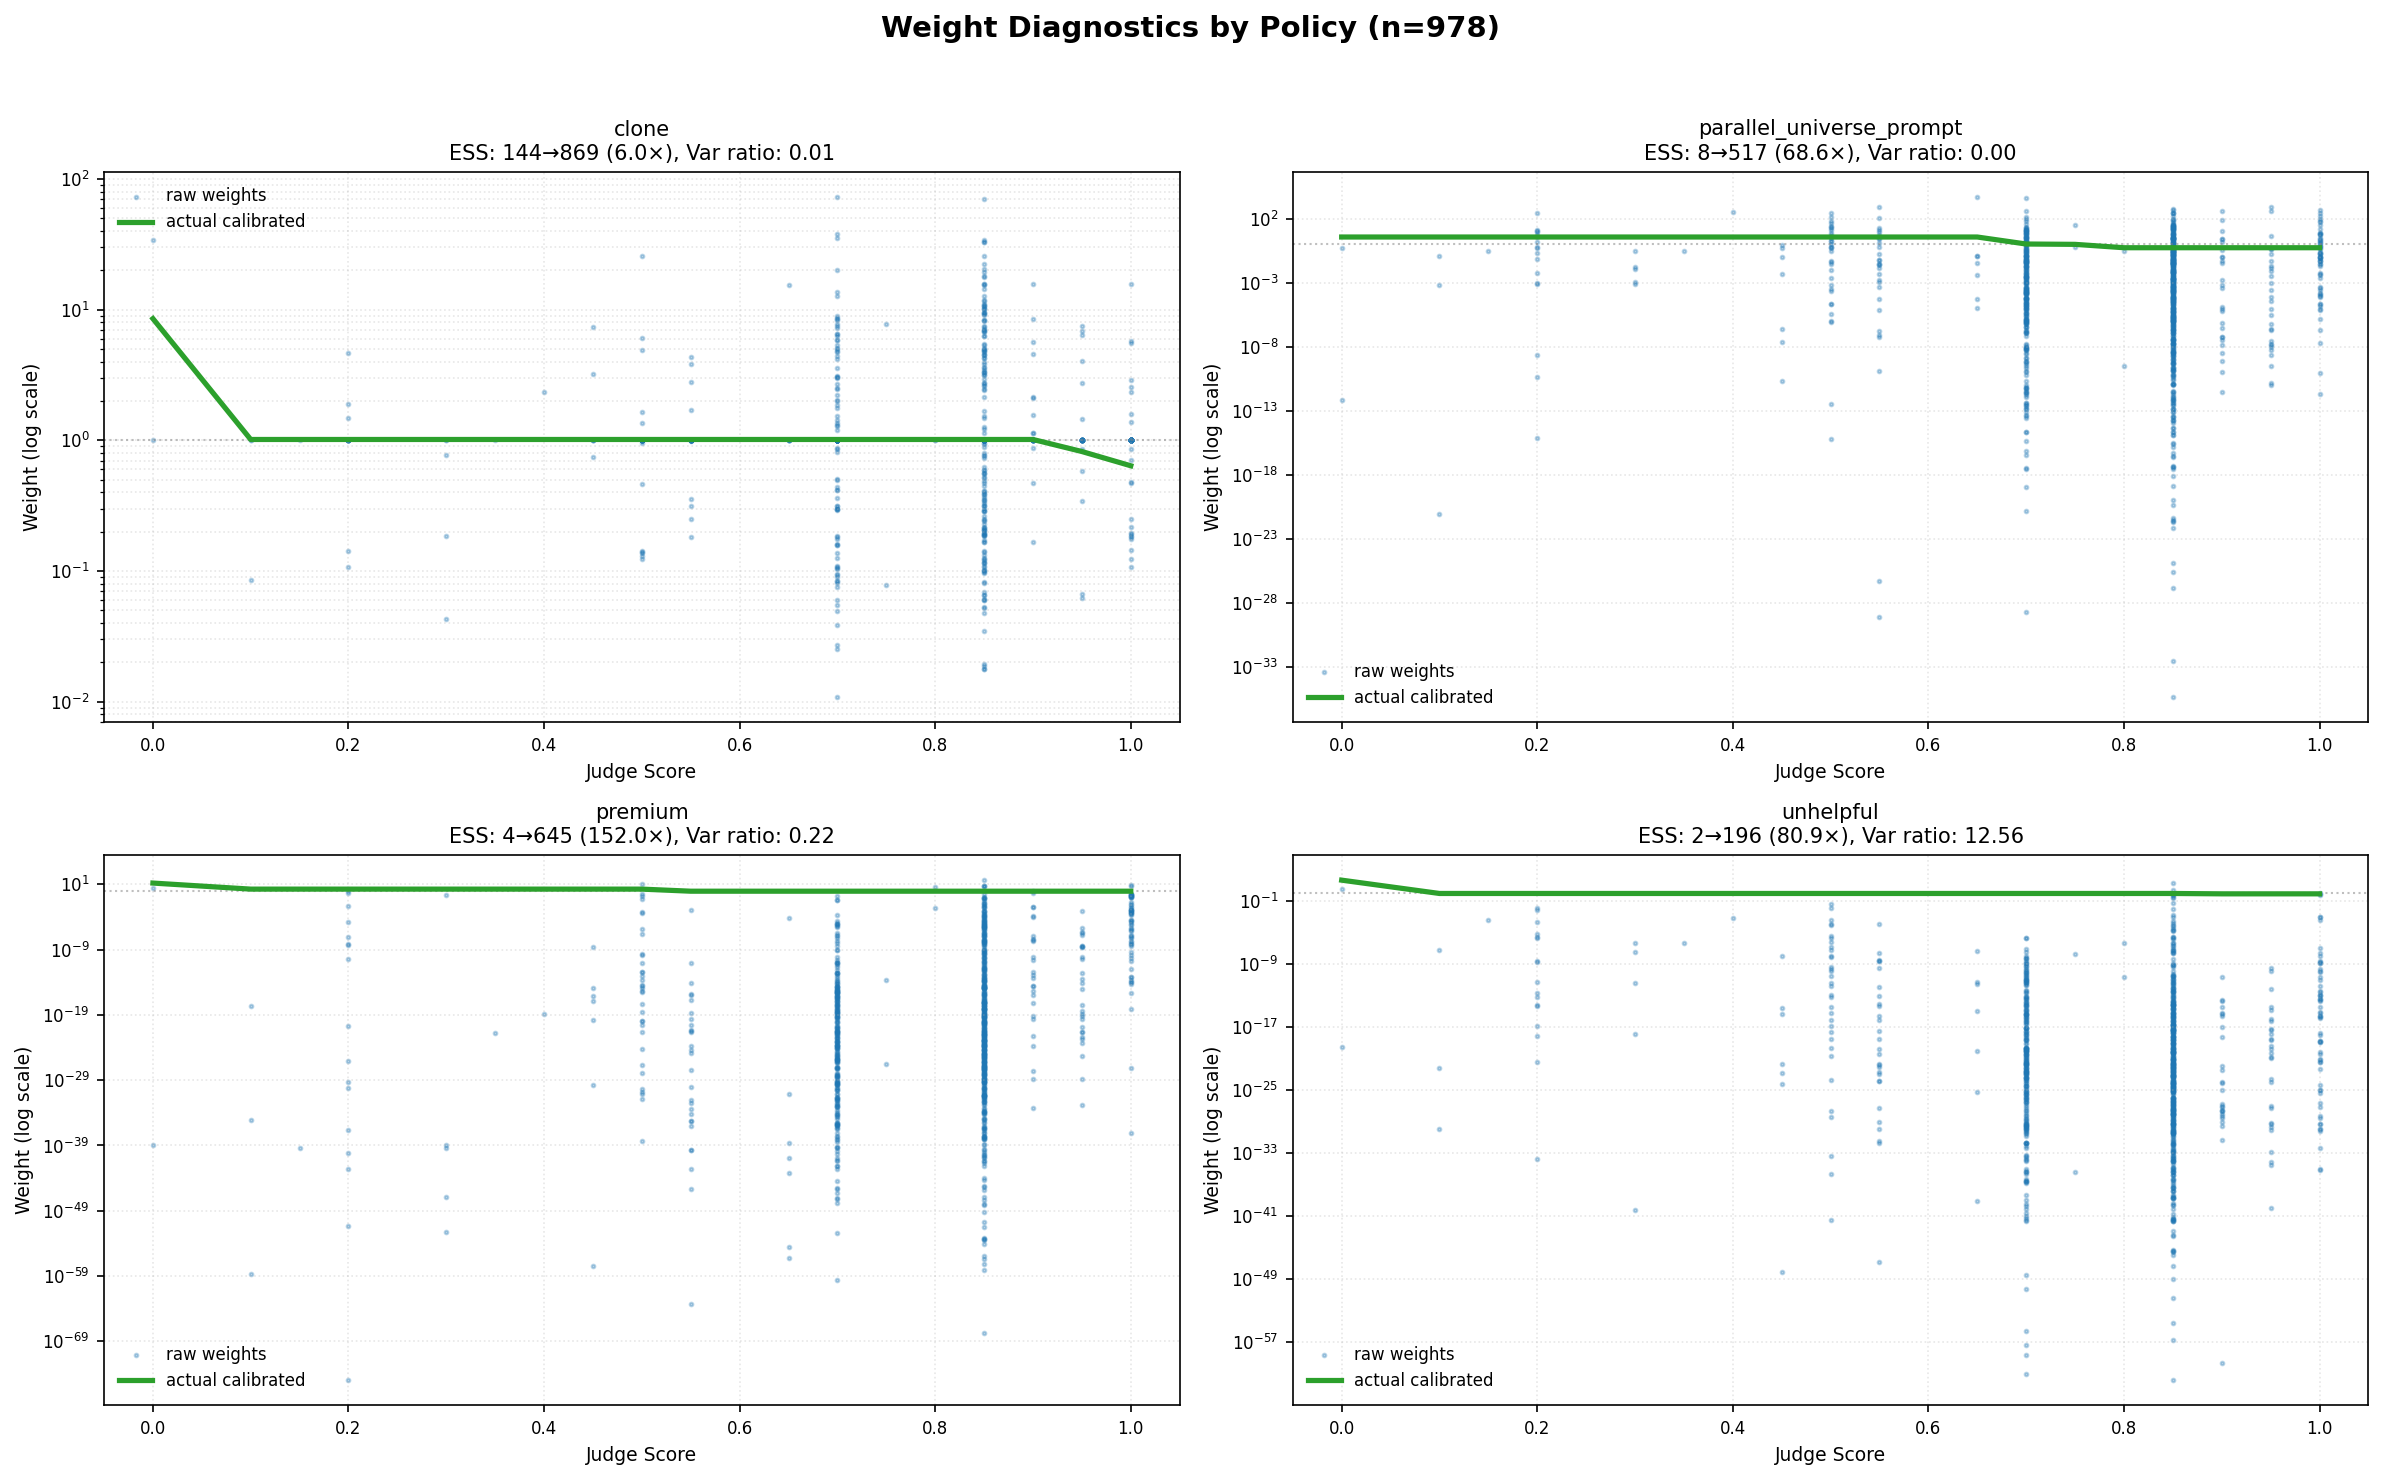
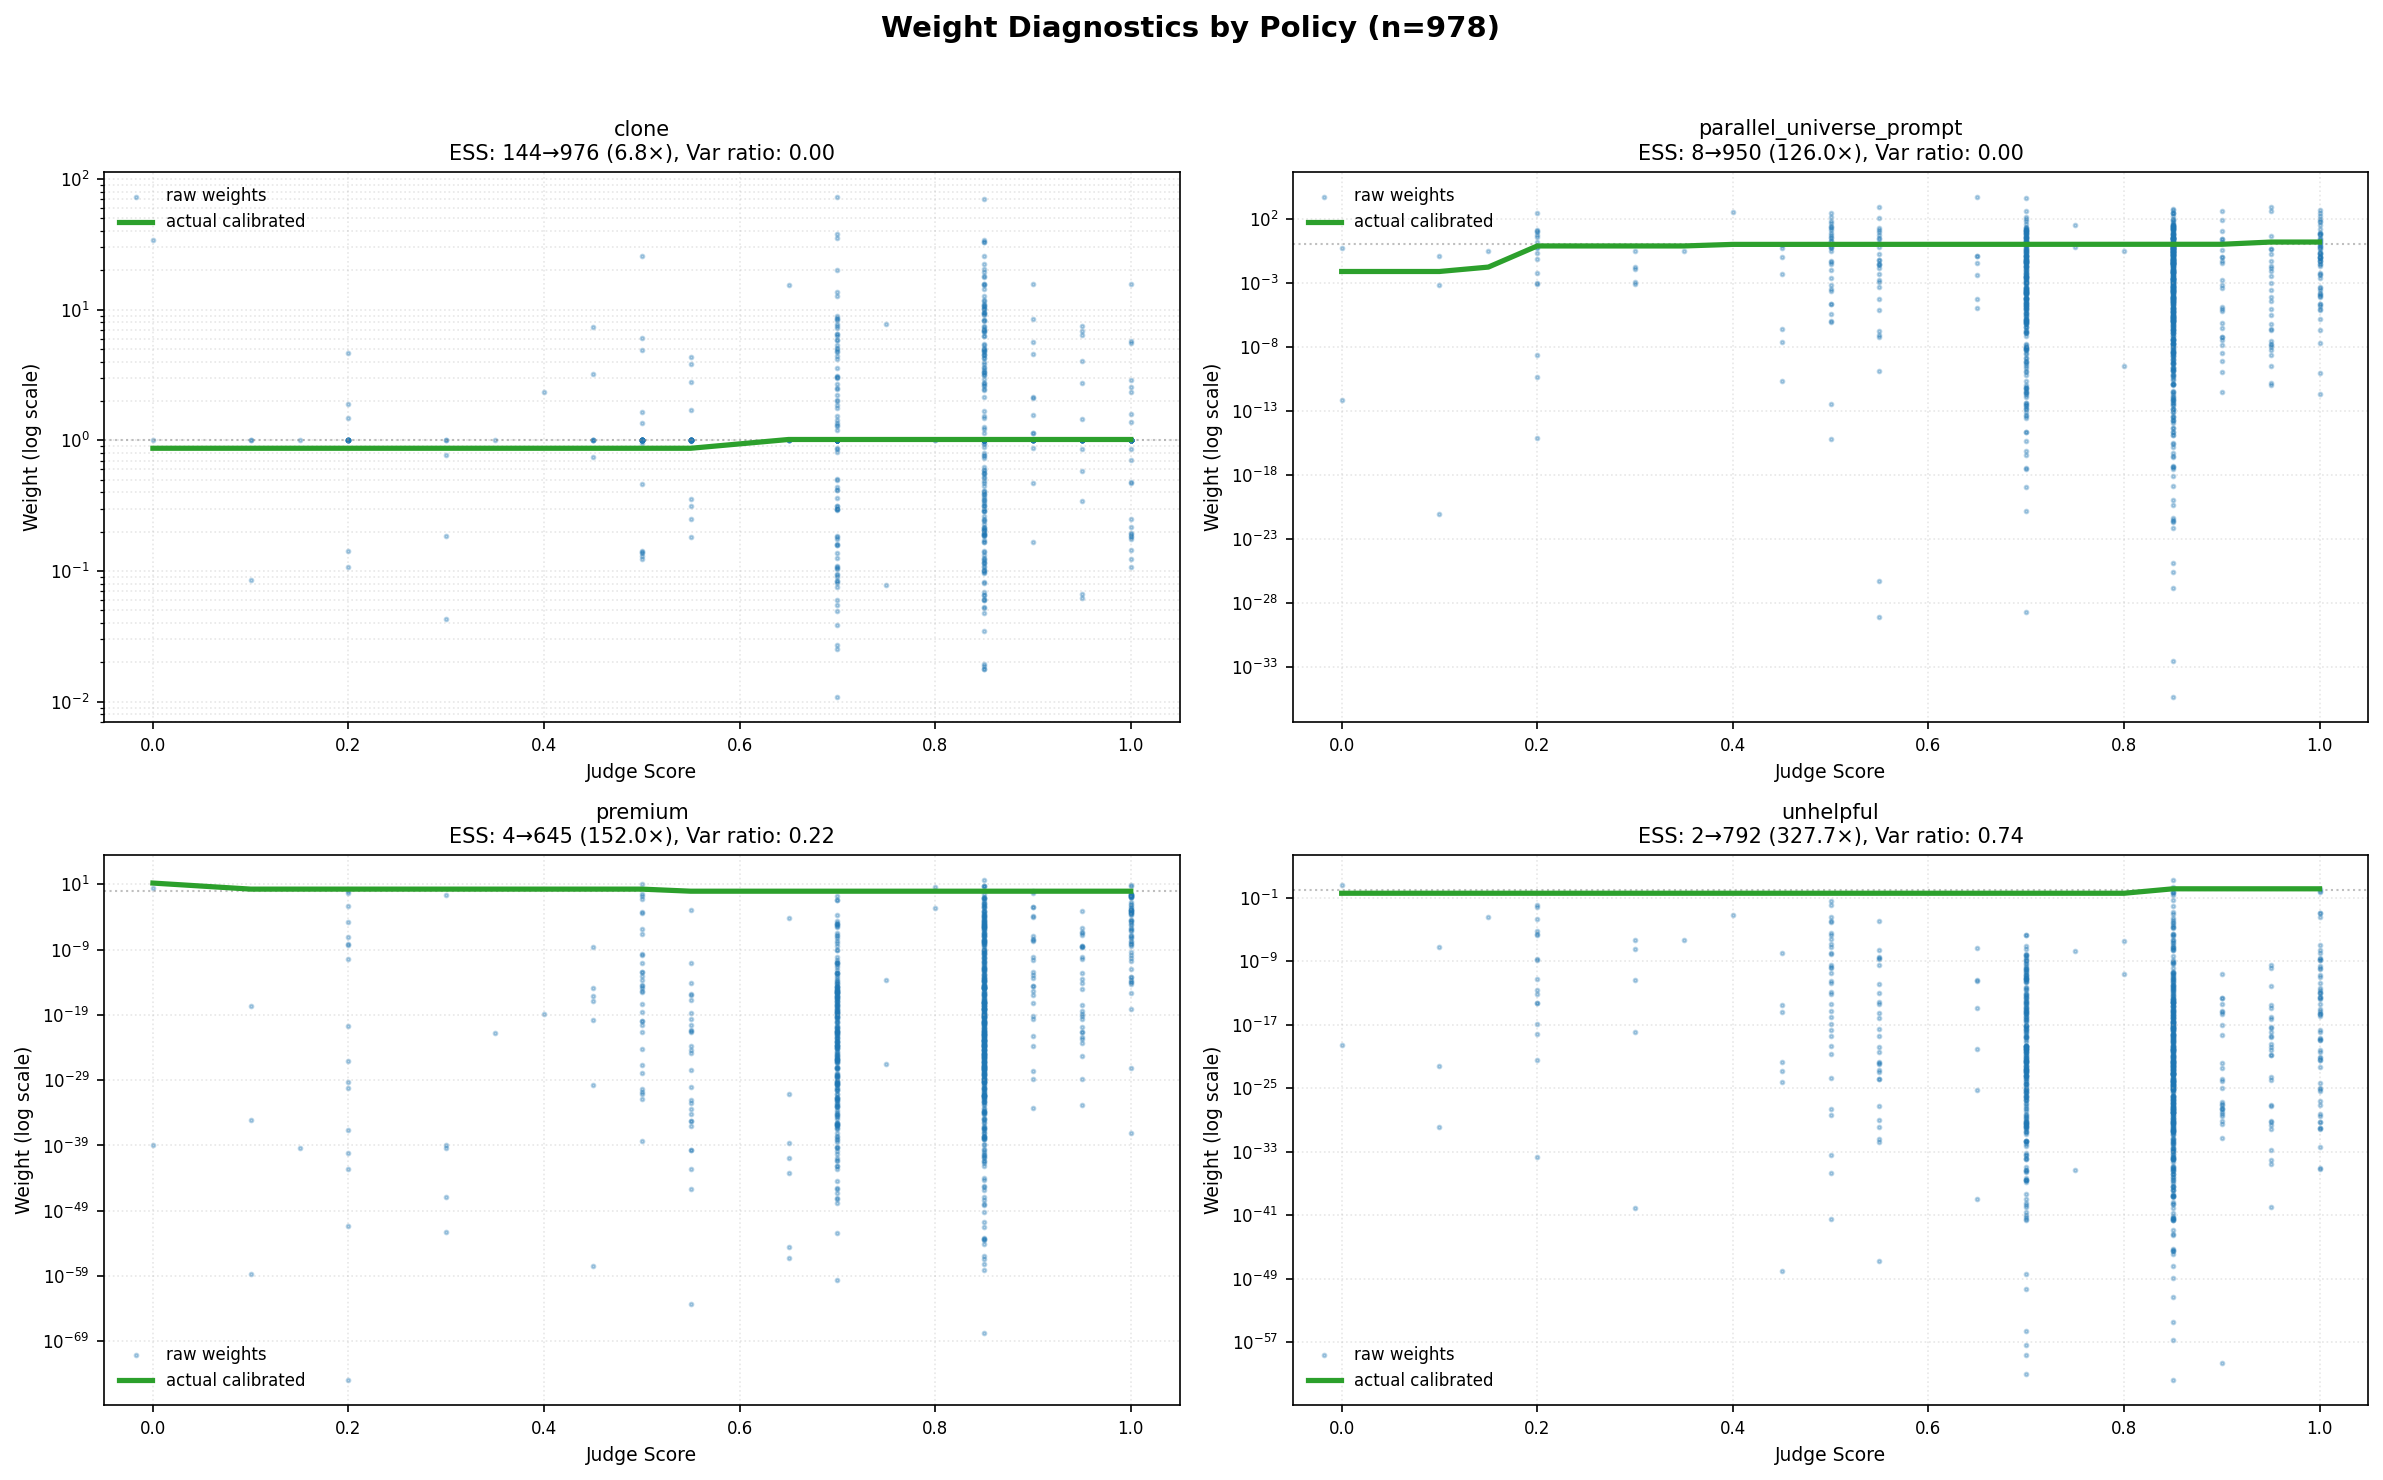
feat: Add IF-based direction selection for SIMCal weight calibration
Implements a more principled approach to selecting monotone direction
in SIMCal based on minimizing influence function variance rather than
L2 distance. This leads to better statistical efficiency.

Key changes:
- Add _select_best_direction() method to CalibratedIPS that computes
  IF variance for both monotone directions and picks the best
- Support DR-aware selection when calibrator is available, using
  cross-fitted residuals for more accurate variance estimation
- Pass calibrator through entire pipeline (analysis.py → estimators)
- Maintain backward compatibility with select_direction_by="l2"
- Default to "if_variance" as it minimizes estimator risk

The new method:
- IPS mode: Uses weighted_rewards - mean as influence function
- DR mode: Uses w * (rewards - g_oof) with cross-fitted outcome model
- Tries both increasing/decreasing projections, picks lower IF variance
- Falls back gracefully when DR information unavailable

🤖 Generated with [Claude Code](https://claude.ai/code)

diff --git a/cje/estimators/calibrated_ips.py b/cje/estimators/calibrated_ips.py
@@ -7,7 +7,7 @@ blends toward uniform to meet variance/ESS constraints.
 """
 
 import numpy as np
-from typing import Dict, Optional, Set, Any
+from typing import Dict, Optional, Set, Any, Tuple
 import logging
 
 from .base_estimator import BaseCJEEstimator
@@ -38,6 +38,8 @@ class CalibratedIPS(BaseCJEEstimator):
         clip_weight: Maximum weight value before calibration (default None = no clipping)
         ess_floor: Minimum ESS as fraction of n (default 0.2 = 20% ESS)
         var_cap: Maximum allowed variance of calibrated weights (default None = no cap)
+        calibrator: Optional JudgeCalibrator for DR-aware direction selection
+        select_direction_by: Method for direction selection ("l2" or "if_variance")
     """
 
     def __init__(
@@ -46,14 +48,143 @@ class CalibratedIPS(BaseCJEEstimator):
         clip_weight: Optional[float] = None,
         ess_floor: Optional[float] = 0.2,
         var_cap: Optional[float] = None,
+        calibrator: Optional[Any] = None,
+        select_direction_by: str = "if_variance",
     ):
         super().__init__(sampler)
         self.clip_weight = clip_weight
         self.ess_floor = ess_floor
         self.var_cap = var_cap
+        self.calibrator = calibrator
+        self.select_direction_by = select_direction_by
         self._no_overlap_policies: Set[str] = set()
         self._calibration_info: Dict[str, Dict] = {}  # Store calibration details
         self._diagnostics: Optional[IPSDiagnostics] = None
+
+    def _select_best_direction(
+        self,
+        raw_weights: np.ndarray,
+        judge_scores: np.ndarray,
+        rewards: np.ndarray,
+        policy: str,
+    ) -> Tuple[np.ndarray, Dict[str, Any]]:
+        """Select SIMCal direction that minimizes influence function variance.
+
+        Args:
+            raw_weights: Raw importance weights (mean-one)
+            judge_scores: Judge scores for ordering
+            rewards: Reward values
+            policy: Policy name (for logging)
+
+        Returns:
+            Tuple of (calibrated_weights, calibration_info)
+        """
+        from ..calibration.simcal import SIMCalibrator, SimcalConfig
+
+        if self.select_direction_by == "l2":
+            # Use existing auto-selection by L2 distance
+            cfg = SimcalConfig(
+                ess_floor=self.ess_floor,
+                var_cap=self.var_cap,
+                direction="auto",
+                tie_break="ess",
+            )
+            sim = SIMCalibrator(cfg)
+            return sim.transform(raw_weights, judge_scores)
+
+        # Try both directions and pick by IF variance
+        results = {}
+
+        for direction in ["increasing", "decreasing"]:
+            # Get calibrated weights for this direction
+            cfg = SimcalConfig(
+                ess_floor=self.ess_floor,
+                var_cap=self.var_cap,
+                direction=direction,
+                tie_break="ess",
+            )
+            sim = SIMCalibrator(cfg)
+            w_cal, info = sim.transform(raw_weights, judge_scores)
+
+            # Compute IF variance for these weights
+            if self.calibrator is not None and hasattr(self.calibrator, "predict_oof"):
+                # DR-aware: use cross-fitted residuals
+                try:
+                    # Get fold assignments from dataset metadata if available
+                    fold_ids = None
+                    if hasattr(self.sampler, "dataset") and self.sampler.dataset:
+                        # Get data for this policy to find fold assignments
+                        data = self.sampler.get_data_for_policy(policy)
+                        if data:
+                            # Extract fold_ids from metadata
+                            fold_list = []
+                            for d in data:
+                                # Look for cv_fold in the sample metadata
+                                if "cv_fold" in d:
+                                    fold_list.append(d["cv_fold"])
+                            if fold_list and len(fold_list) == len(judge_scores):
+                                fold_ids = np.array(fold_list)
+
+                    if fold_ids is not None:
+                        g_oof = self.calibrator.predict_oof(judge_scores, fold_ids)
+                        residuals = rewards - g_oof
+                        # DR influence function (IPS correction term only, DM term doesn't depend on weights)
+                        ips_correction = w_cal * residuals
+                        if_contrib = ips_correction - ips_correction.mean()
+                        logger.debug(
+                            f"Using DR-aware IF variance for {policy} direction={direction}"
+                        )
+                    else:
+                        # No fold info, fall back to IPS
+                        logger.debug(
+                            f"No fold info available for DR-aware selection, using IPS"
+                        )
+                        weighted_rewards = w_cal * rewards
+                        if_contrib = weighted_rewards - weighted_rewards.mean()
+                except Exception as e:
+                    logger.warning(
+                        f"Failed to compute DR residuals: {e}. Falling back to IPS."
+                    )
+                    # Fall back to IPS
+                    weighted_rewards = w_cal * rewards
+                    if_contrib = weighted_rewards - weighted_rewards.mean()
+            else:
+                # IPS influence function
+                weighted_rewards = w_cal * rewards
+                if_contrib = weighted_rewards - weighted_rewards.mean()
+
+            if_var = float(np.var(if_contrib))
+            results[direction] = {
+                "weights": w_cal,
+                "info": info,
+                "if_var": if_var,
+            }
+
+            logger.debug(
+                f"Direction {direction}: IF var={if_var:.6f}, "
+                f"ESS={info['ess_after_blend']:.1f}, gamma={info['gamma']:.3f}"
+            )
+
+        # Pick direction with lower IF variance (tie-break by ESS)
+        if (
+            abs(results["increasing"]["if_var"] - results["decreasing"]["if_var"])
+            < 1e-10
+        ):
+            # Tie: pick by ESS
+            best_dir = max(results, key=lambda d: results[d]["info"]["ess_after_blend"])
+            logger.debug(f"IF variance tied, selected {best_dir} by ESS")
+        else:
+            best_dir = min(results, key=lambda d: results[d]["if_var"])
+            logger.debug(f"Selected {best_dir} by IF variance")
+
+        # Add selection info to the calibration info
+        best_info = results[best_dir]["info"].copy()
+        best_info["selection_method"] = "if_variance"
+        best_info["if_var_increasing"] = results["increasing"]["if_var"]
+        best_info["if_var_decreasing"] = results["decreasing"]["if_var"]
+        best_info["selected_direction"] = best_dir
+
+        return results[best_dir]["weights"], best_info
 
     def fit(self) -> None:
         """Fit weight calibration for all target policies."""
@@ -88,19 +219,17 @@ class CalibratedIPS(BaseCJEEstimator):
                     "Ensure samples have 'judge_score' in metadata."
                 )
 
-            from ..calibration.simcal import SIMCalibrator, SimcalConfig
+            # Get rewards for this policy to enable IF-based selection
+            data = self.sampler.get_data_for_policy(policy)
+            if not data:
+                logger.warning(f"No data for policy '{policy}'. Skipping.")
+                continue
+            rewards = np.array([d["reward"] for d in data], dtype=float)
 
-            # Create SIMCal config
-            cfg = SimcalConfig(
-                ess_floor=self.ess_floor,
-                var_cap=self.var_cap,
-                direction="auto",  # Auto-select increasing/decreasing
-                tie_break="ess",  # Break ties by ESS
+            # Select best direction based on IF variance (or L2 if configured)
+            calibrated, calib_info = self._select_best_direction(
+                raw_weights, judge_scores, rewards, policy
             )
-
-            # Calibrate with SIMCal
-            sim = SIMCalibrator(cfg)
-            calibrated, calib_info = sim.transform(raw_weights, judge_scores)
 
             # Cache results
             self._weights_cache[policy] = calibrated

diff --git a/cje/analysis.py b/cje/analysis.py
@@ -181,6 +181,12 @@ def _create_estimator(
     """Create the appropriate estimator."""
 
     if estimator_type == "calibrated-ips":
+        # Pass calibrator for DR-aware direction selection if available
+        if calibration_result and calibration_result.calibrator:
+            config = config.copy()  # Don't modify original
+            config["calibrator"] = calibration_result.calibrator
+            if verbose:
+                logger.info("Using calibrator for DR-aware SIMCal direction selection")
         return CalibratedIPS(sampler, **config)
 
     elif estimator_type == "raw-ips":
@@ -202,20 +208,42 @@ def _create_estimator(
     elif estimator_type == "mrdr":
         n_folds = config.get("n_folds", 5)
         omega_mode = config.get("omega_mode", "snips")
-        return MRDREstimator(
-            sampler,
-            n_folds=n_folds,
-            omega_mode=omega_mode,
-        )
+        # Pass calibrator if available for DR-aware weight selection
+        if calibration_result and calibration_result.calibrator:
+            if verbose:
+                logger.info("Using calibration models for MRDR")
+            return MRDREstimator(
+                sampler,
+                n_folds=n_folds,
+                omega_mode=omega_mode,
+                calibrator=calibration_result.calibrator,
+            )
+        else:
+            return MRDREstimator(
+                sampler,
+                n_folds=n_folds,
+                omega_mode=omega_mode,
+            )
 
     elif estimator_type == "tmle":
         n_folds = config.get("n_folds", 5)
         link = config.get("link", "logit")
-        return TMLEEstimator(
-            sampler,
-            n_folds=n_folds,
-            link=link,
-        )
+        # Pass calibrator if available for DR-aware weight selection
+        if calibration_result and calibration_result.calibrator:
+            if verbose:
+                logger.info("Using calibration models for TMLE")
+            return TMLEEstimator(
+                sampler,
+                n_folds=n_folds,
+                link=link,
+                calibrator=calibration_result.calibrator,
+            )
+        else:
+            return TMLEEstimator(
+                sampler,
+                n_folds=n_folds,
+                link=link,
+            )
 
     else:
         raise ValueError(f"Unknown estimator type: {estimator_type}")

diff --git a/cje/estimators/dr_base.py b/cje/estimators/dr_base.py
@@ -69,6 +69,10 @@ class DREstimator(BaseCJEEstimator):
         # Initialize the appropriate IPS estimator
         self.ips_estimator: Union[CalibratedIPS, RawIPS]
         if use_calibrated_weights:
+            # Pass calibrator to CalibratedIPS for DR-aware direction selection
+            if calibrator is not None:
+                kwargs = kwargs.copy()  # Don't modify original
+                kwargs["calibrator"] = calibrator
             self.ips_estimator = CalibratedIPS(sampler, **kwargs)
             logger.info("Using CalibratedIPS for importance weights in DR")
         else:

diff --git a/cje/estimators/mrdr.py b/cje/estimators/mrdr.py
@@ -134,7 +134,7 @@ class MRDREstimator(DREstimator):
 
         outcome_model = IsotonicOutcomeModel(n_folds=n_folds)
 
-        # Initialize DR base
+        # Initialize DR base (which will pass calibrator to CalibratedIPS)
         super().__init__(
             sampler=sampler,
             outcome_model=outcome_model,
